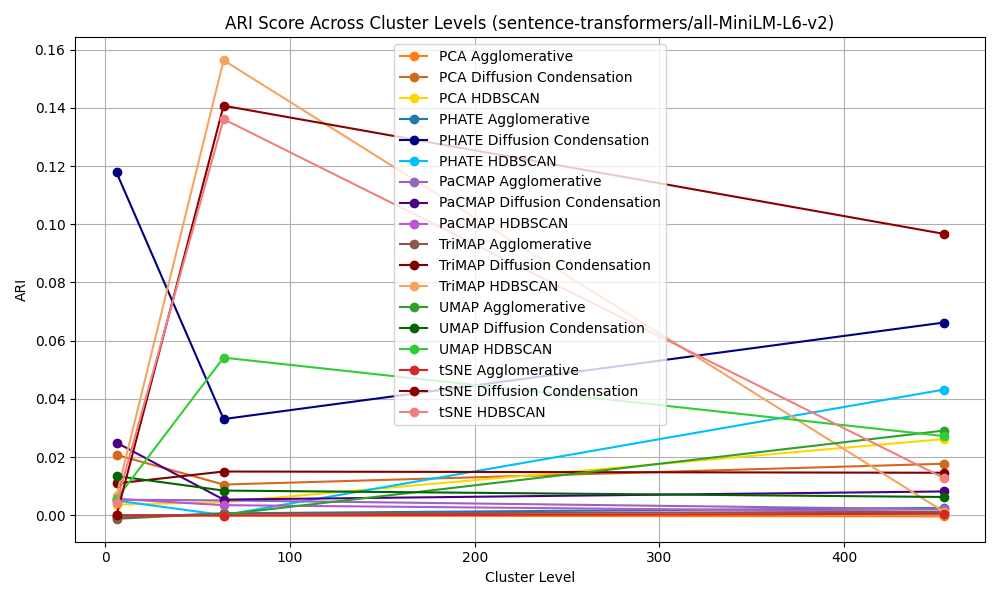
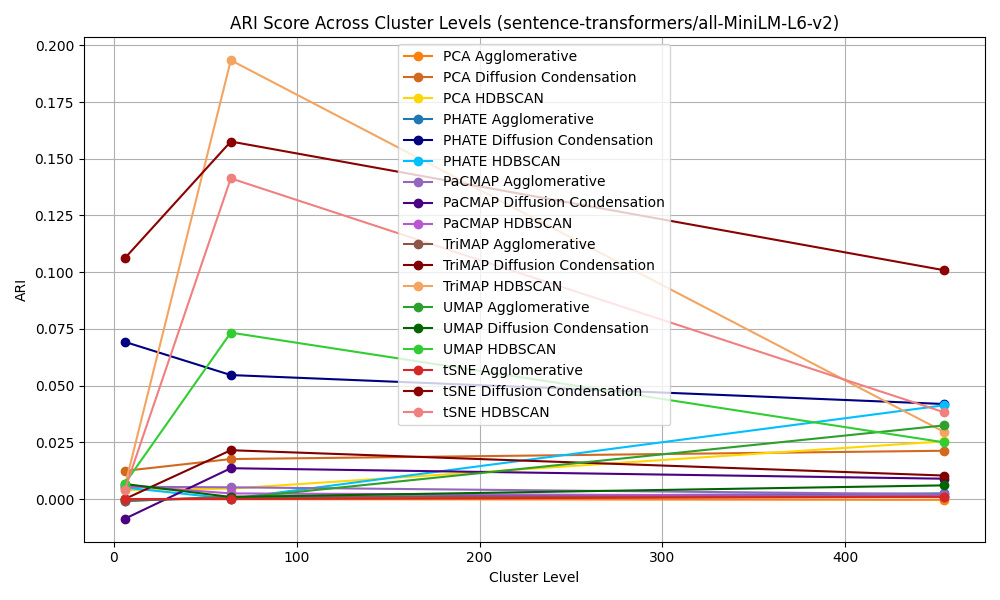
update db code to handle dc bottleneck

diff --git a/src/run_models/benchmark_datasets/dbpedia.py b/src/run_models/benchmark_datasets/dbpedia.py
@@ -34,6 +34,11 @@ from pathlib import Path
 import warnings
 from collections import defaultdict
 import torch
+torch.cuda.empty_cache()
+import torch.nn.functional as F
+from torch.nn import DataParallel
+from torch import Tensor
+from transformers import AutoTokenizer, AutoModel
 
 # ===================
 # Data Manipulation
@@ -98,13 +103,19 @@ db = db.rename(columns={"text":"topic"})
 db = db.rename(columns={"l1":"category_0"})
 db = db.rename(columns={"l2":"category_1"})
 db = db.rename(columns={"l3":"category_2"})
-    
-
-db = pd.DataFrame(db)
 
 
+def clean_dbpedia(text):
+    text = re.sub(r'[^\x00-\x7F]+', ' ', text)
+    text = re.sub(r'\s+', ' ', text).strip()
+    return text
 
-def get_embeddings(texts, model):
+db['topic'] = db['topic'].astype(str).apply(clean_dbpedia)
+print(db.iloc[0])
+
+
+
+def get_embeddings(texts, model_id):
     """
     Fetches embeddings using the specified backend: 'gpt' (OpenAI) or 'sentence-transformers'.
     
@@ -118,8 +129,13 @@ def get_embeddings(texts, model):
     """
     print("Using device:", device)
     
-    model = SentenceTransformer(model, device=device)
+    model = SentenceTransformer(
+        "Qwen/Qwen3-Embedding-0.6B",
+        model_kwargs={"attn_implementation": "sdpa", "device_map": "auto"},
+        tokenizer_kwargs={"padding_side": "left"}
+    )
     
+
     print("Generating embeddings...")
     embeddings = model.encode(
         texts,
@@ -171,74 +187,84 @@ for embedding_model in embedding_model_names:
     print(f"{'='*60}\n")
 
     os.makedirs(f'{embedding_model}_results', exist_ok=True)
-    os.makedirs(f"{embedding_model}_embeddings", exist_ok=True)
-    embedding_list = get_embeddings(db['topic'], model=embedding_model)
+    
+    reduction_dir = f"{embedding_model}_reduced_embeddings"
+    os.makedirs(reduction_dir, exist_ok=True)
 
-    np.save(f"{embedding_model}_embeddings/db_embed.npy", embedding_list)
 
-    embedding_list = np.load(f"{embedding_model}_embeddings/db_embed.npy")
+    embedding_list = []
+
+    if os.path.exists(f"{embedding_model}_embeddings/db_embed.npy"):
+        print(f"Loading existing embeddings")
+        embedding_list = np.load(f"{embedding_model}_embeddings/db_embed.npy")
+    else:
+        embedding_list = get_embeddings(db['topic'], model_id=embedding_model)
+        np.save(f"{embedding_model}_embeddings/db_embed.npy", embedding_list)
+
 
     os.makedirs(f'{embedding_model}_reduced_embeddings', exist_ok=True)
 
     # Shuffle embeddings with the same index as topic_data
     data = np.array(embedding_list)[shuffle_idx]
 
-    reducer_model = phate.PHATE(n_jobs=-2, random_state=67, n_components=300, decay=20, t="auto", n_pca=None)
-    embed_phate = reducer_model.fit_transform(data)
-    np.save(f"{embedding_model}_reduced_embeddings/PHATE_db_embed.npy", embed_phate)
+    #reducer_model = phate.PHATE(n_jobs=-2, random_state=67, n_components=300, decay=20, t="auto", n_pca=None)
+    #embed_phate = reducer_model.fit_transform(data)
+    #np.save(f"{embedding_model}_reduced_embeddings/PHATE_db_embed.npy", embed_phate)
 
-    embed_phate = np.load(f"{embedding_model}_reduced_embeddings/PHATE_wos_embed.npy")
-
-    import matplotlib.pyplot as plt
+    #embed_phate = np.load(f"{embedding_model}_reduced_embeddings/PHATE_db_embed.npy")
 
     # Load your embeddings
     embeddings = np.array(data)
     embedding_methods_for_model = {}  # Local dict for this embedding model
 
-    embedding_methods_for_model["PHATE"] = embed_phate
+    reduction_tasks = {
+    "PHATE": {
+        "path": f"{reduction_dir}/PHATE_db_embed.npy",
+        "run": lambda: phate.PHATE(n_jobs=-2, random_state=67, n_components=300, decay=20, t="auto", n_pca=None).fit_transform(embeddings)
+    },
+    "PCA": {
+        "path": f"{reduction_dir}/PCA_db_embed.npy",
+        "run": lambda: cuPCA(n_components=300).fit_transform(embeddings)
+    },
+    "UMAP": {
+        "path": f"{reduction_dir}/UMAP_db_embed_new.npy",
+        "run": lambda: cuUMAP(n_components=300, min_dist=.05, n_neighbors=10).fit_transform(embeddings)
+    },
+    "tSNE": {
+        "path": f"{reduction_dir}/tSNE_db_embed.npy",
+        "run": lambda: cuTSNE(n_components=2).fit_transform(embeddings)
+    },
+    "PaCMAP": {
+        "path": f"{reduction_dir}/PaCMAP_db_embed.npy",
+        "run": lambda: pacmap.PaCMAP(n_components=300, random_state=67).fit_transform(embeddings)
+    },
+    "TriMAP": {
+        "path": f"{reduction_dir}/TriMAP_db_embed.npy",
+        "run": lambda: trimap.TRIMAP(n_dims=300).fit_transform(embeddings)
+    }
+}
 
-    # Apply other dimensionality reduction methods
-    include_pca = True
-    include_umap = True
+for method_name, task in reduction_tasks.items():
+    if os.path.exists(task["path"]):
+        print(f"Loading cached {method_name} from {task['path']}...")
+        result = np.load(task["path"])
+    else:
+        print(f"Running {method_name}...")
+        result = task["run"]()
+        
+        # Handle cuML GPU to CPU conversion if necessary
+        if hasattr(result, 'to_output'):
+            result = result.to_output('numpy')
+        elif not isinstance(result, np.ndarray):
+            result = np.array(result)
+            
+        np.save(task["path"], result)
+        print(f"Saved {method_name} to {task['path']}")
+    
+    embedding_methods_for_model[method_name] = result
 
-    # PCA using cuML (GPU-accelerated)
-    if include_pca:
-        print("Running PCA with cuML (GPU)...")
-        pca_model = cuPCA(n_components=300)
-        pca_result = pca_model.fit_transform(embeddings)
-        # Convert from GPU to numpy
-        embedding_methods_for_model["PCA"] = pca_result.to_output('numpy') if hasattr(pca_result, 'to_output') else np.array(pca_result)
-        np.save(f"{embedding_model}_reduced_embeddings/PCA_db_embed.npy", embedding_methods_for_model["PCA"])
-
-    # UMAP using cuML (GPU-accelerated)
-    if include_umap:
-        print("Running UMAP with cuML (GPU)...")
-        umap_model = cuUMAP(n_components=300, min_dist=.05, n_neighbors=10)
-        umap_result = umap_model.fit_transform(embeddings)
-        # Convert from GPU to numpy
-        embedding_methods_for_model["UMAP"] = umap_result.to_output('numpy') if hasattr(umap_result, 'to_output') else np.array(umap_result)
-        np.save(f"{embedding_model}_reduced_embeddings/UMAP_db_embed_new.npy", embedding_methods_for_model["UMAP"])
-
-    # t-SNE using cuML (GPU-accelerated)
-    print("Running t-SNE with cuML (GPU)...")
-    tsne_model = cuTSNE(n_components=2)
-    tsne_result = tsne_model.fit_transform(embeddings)
-    # Convert from GPU to numpy
-    embedding_methods_for_model["tSNE"] = tsne_result.to_output('numpy') if hasattr(tsne_result, 'to_output') else np.array(tsne_result)
-    np.save(f"{embedding_model}_reduced_embeddings/tSNE_db_embed.npy", embedding_methods_for_model["tSNE"])
-
-    # # Fit to PaCMAP
-    pac = pacmap.PaCMAP(n_components=300, random_state=67)
-    embedding_methods_for_model["PaCMAP"] = pac.fit_transform(embeddings)
-    np.save(f"{embedding_model}_reduced_embeddings/PaCMAP_db_embed.npy", embedding_methods_for_model["PaCMAP"])
-
-    # # Fit to TriMAP
-    tr = trimap.TRIMAP(n_dims=300)
-    embedding_methods_for_model["TriMAP"] = tr.fit_transform(embeddings)
-    np.save(f"{embedding_model}_reduced_embeddings/TriMAP_db_embed.npy", embedding_methods_for_model["TriMAP"])
-
-    # Store the embedding methods for this model
-    embedding_models[embedding_model] = embedding_methods_for_model
+# Store the final dict for the global embedding_models
+embedding_models[embedding_model] = embedding_methods_for_model
 
     
 scores_all = defaultdict(lambda: defaultdict(list))
@@ -301,12 +327,29 @@ def safe_run_combo(embedding_model, embed_name, cluster_method):
                 print(f"HDBSCAN clustering complete. Unique labels: {len(np.unique(labels))}")
 
             elif cluster_method == "DC":
-                # Diffusion Condensation uses CPU implementation
-                print("Using CPU Diffusion Condensation...")
-                model = dc(min_clusters=level, max_iterations=5000, k=10, alpha=3)
-                model.fit(embed_data)
-                labels = model.labels_
-                print(f"DC clustering complete. Unique labels: {len(np.unique(labels))}")
+                # 1. Path setup: Organizing by Embedding Model and Reduction Method
+                # Example: Qwen3-Embedding_results/labels/DC_PHATE_level_142.npy
+                label_dir = f"{embedding_model}_results/db/labels"
+                os.makedirs(label_dir, exist_ok=True)
+                label_path = f"{label_dir}/{embed_name}_level_{level}.npy"
+
+                # 2. Check if this specific level has already been computed
+                if os.path.exists(label_path):
+                    print(f"Loading cached DC labels from {label_path}")
+                    labels = np.load(label_path)
+                else:
+                    print(f"Running CPU Diffusion Condensation for {embed_name} (Target Level: {level})")
+                    
+                    # Initialize and fit the model
+                    model = dc(min_clusters=level, max_iterations=5000, k=10, alpha=3)
+                    model.fit(embed_data)
+                    
+                    # 3. Direct assignment (since DC outputs NumPy arrays)
+                    labels = model.labels_
+                    
+                    # 4. Save to disk for future runs
+                    np.save(label_path, labels)
+                    print(f"DC complete. Saved {len(np.unique(labels))} unique labels to {label_path}")
 
 
             available_levels = np.array(sorted(topic_dict.keys()))

diff --git a/src/run_models/benchmark_datasets/amazon.py b/src/run_models/benchmark_datasets/amazon.py
@@ -126,8 +126,17 @@ def get_embeddings(texts, model):
         list: List of embeddings.
     """
     print("Using device:", device)
+    print(len(texts))
     
     model = SentenceTransformer(model, device=device)
+
+    tok = model.tokenizer(texts.tolist(), truncation=False, padding=False)
+
+    lens = [len(x) for x in tok['input_ids']]
+
+    print(f"Total tokens: {sum(lens):,}")
+    print(f"Avg tokens: {sum(lens)/len(lens):.1f}")
+    print(f"Max tokens: {max(lens)}")
     
     print("Generating embeddings...")
     embeddings = model.encode(

diff --git a/src/run_models/benchmark_datasets/WOS.py b/src/run_models/benchmark_datasets/WOS.py
@@ -34,6 +34,7 @@ from pathlib import Path
 import warnings
 from collections import defaultdict
 import torch
+torch.cuda.empty_cache()
 
 # ===================
 # Data Manipulation
@@ -128,7 +129,7 @@ def get_embeddings(texts, model):
     print("Generating embeddings...")
     embeddings = model.encode(
         texts,
-        batch_size=32,
+        batch_size=64,
         show_progress_bar=True,
         convert_to_numpy=True,
         normalize_embeddings=True
